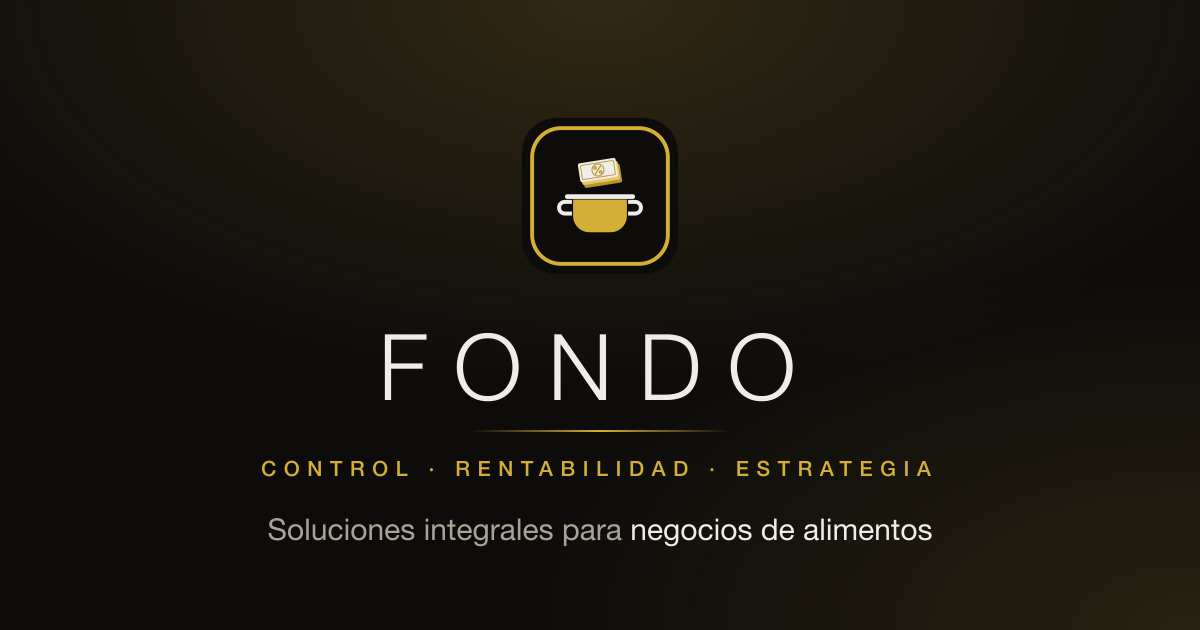
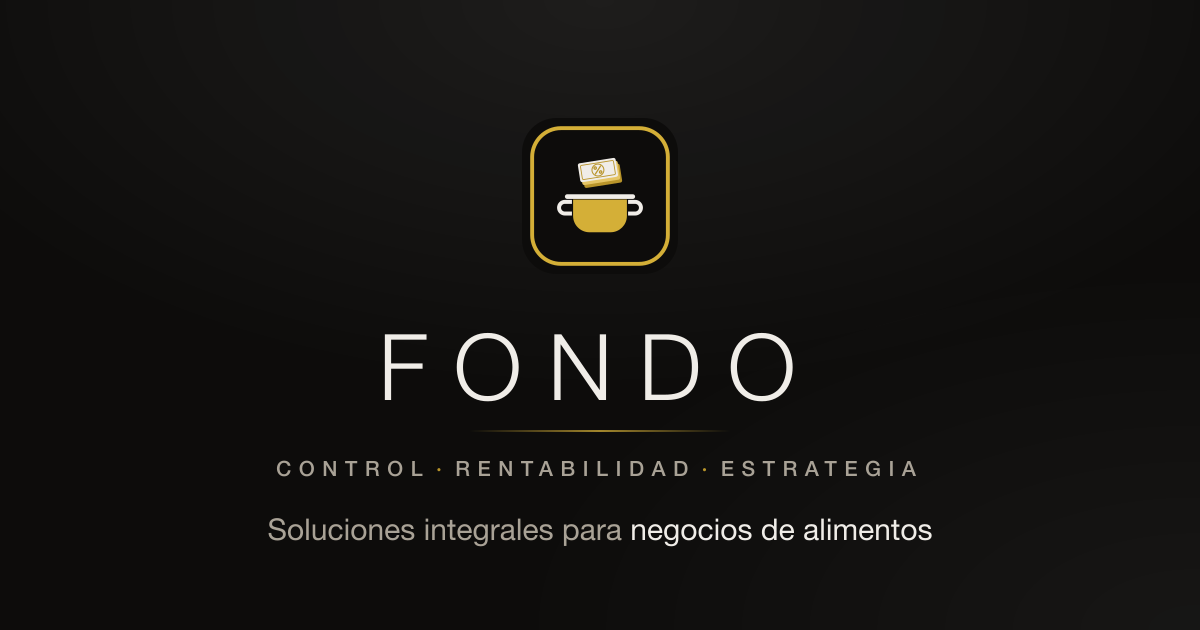
Spend the gold once, on the mark
The gold was everywhere: a gradient on the button, two coloured lights behind
the seal, the three words in full gold. Gold on every element reads as an
advertisement, not as the way in to a system someone runs their restaurant on.

It now appears three times and nowhere else: the mark, a hairline under it,
and the two separators between the words. The button is cream on black, the
focus ring is neutral, the background is lit by a plain white wash instead of
an amber one that was tinting the whole screen.

The cover image follows the same rule, since it is the first thing anyone sees
when the link is shared.

Changed region(s): [[0.2158, 0.7238, 0.7708, 0.754], [0.4625, 0.6635, 0.555, 0.6937]]

diff --git a/app/login/page.tsx b/app/login/page.tsx
@@ -19,25 +19,23 @@ export default function LoginPage() {
 
   return (
     <div className="relative flex min-h-screen items-center justify-center overflow-hidden bg-neutral-950 px-4 py-10">
-      {/* Dos luces tibias detras del sello, para que el negro no quede plano. */}
+      {/* Un aclarado neutro arriba, nada mas para que el negro no quede plano. Sin color:
+          teñir el fondo de ambar hacia que la pantalla se leyera como adorno y no como acceso. */}
       <div
         aria-hidden
-        className="pointer-events-none absolute -top-40 left-1/2 h-[32rem] w-[32rem] -translate-x-1/2 rounded-full bg-brand-500/12 blur-3xl"
-      />
-      <div
-        aria-hidden
-        className="pointer-events-none absolute -bottom-52 right-[-10rem] h-[34rem] w-[34rem] rounded-full bg-brand-700/14 blur-3xl"
+        className="pointer-events-none absolute inset-x-0 top-0 h-[28rem] bg-gradient-to-b from-white/[0.05] to-transparent"
       />
 
       <div className="relative w-full max-w-sm">
         <div className="flex flex-col items-center text-center">
           <FondoSeal size={148} tone="dark" />
-          <p className="mt-5 text-[11px] font-medium uppercase tracking-[0.34em] text-brand-400">
-            Control · Rentabilidad · Estrategia
+          <div className="mt-5 h-px w-28 bg-gradient-to-r from-transparent via-brand-500/70 to-transparent" />
+          <p className="mt-5 text-[11px] font-medium uppercase tracking-[0.34em] text-neutral-400">
+            Control <span className="text-brand-500">·</span> Rentabilidad{" "}
+            <span className="text-brand-500">·</span> Estrategia
           </p>
-          <p className="mt-3 text-sm text-neutral-400">
-            Soluciones integrales para{" "}
-            <span className="text-neutral-200">negocios de alimentos</span>
+          <p className="mt-3 text-sm text-neutral-500">
+            Soluciones integrales para negocios de alimentos
           </p>
         </div>
 
@@ -58,7 +56,7 @@ export default function LoginPage() {
               type="email"
               required
               autoComplete="email"
-              className="w-full rounded-lg border border-white/10 bg-neutral-900/80 px-3.5 py-2.5 text-sm text-neutral-100 outline-none transition-colors placeholder:text-neutral-600 focus:border-brand-400/60 focus:ring-1 focus:ring-brand-400/40"
+              className="w-full rounded-lg border border-white/10 bg-neutral-900/80 px-3.5 py-2.5 text-sm text-neutral-100 outline-none transition-colors placeholder:text-neutral-600 focus:border-neutral-500 focus:ring-1 focus:ring-neutral-600"
             />
           </div>
 
@@ -75,7 +73,7 @@ export default function LoginPage() {
               type="password"
               required
               autoComplete="current-password"
-              className="w-full rounded-lg border border-white/10 bg-neutral-900/80 px-3.5 py-2.5 text-sm text-neutral-100 outline-none transition-colors placeholder:text-neutral-600 focus:border-brand-400/60 focus:ring-1 focus:ring-brand-400/40"
+              className="w-full rounded-lg border border-white/10 bg-neutral-900/80 px-3.5 py-2.5 text-sm text-neutral-100 outline-none transition-colors placeholder:text-neutral-600 focus:border-neutral-500 focus:ring-1 focus:ring-neutral-600"
             />
           </div>
 
@@ -88,7 +86,7 @@ export default function LoginPage() {
           <button
             type="submit"
             disabled={pending}
-            className="w-full rounded-lg bg-gradient-to-b from-brand-300 to-brand-500 px-3.5 py-2.5 text-sm font-semibold tracking-wide text-neutral-950 shadow-lg shadow-brand-900/40 transition-opacity hover:opacity-95 disabled:opacity-50"
+            className="w-full rounded-lg bg-neutral-100 px-3.5 py-2.5 text-sm font-semibold tracking-wide text-neutral-950 transition-colors hover:bg-white disabled:opacity-50"
           >
             {pending ? "Entrando..." : "Entrar"}
           </button>
